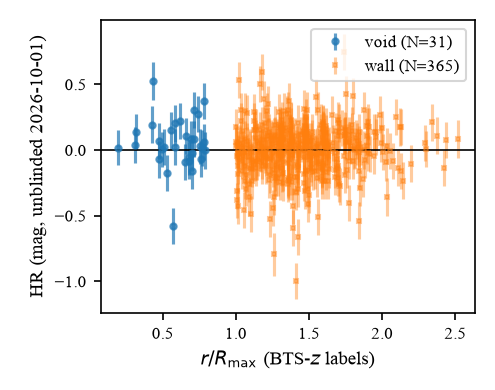
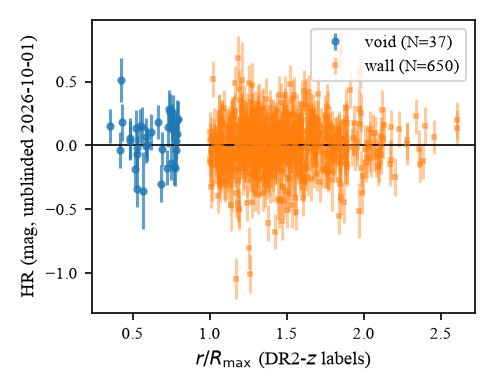
v0.33 arm-labeled nulls, fullx budget rows

diff --git a/paper/sections/05_systematics.tex b/paper/sections/05_systematics.tex
@@ -1,3 +1,3 @@
 \section{Systematics and next steps}
-Mask edge test done (5.6\% cells edge; void fraction shift 2.5\%, subdominant). Blinded DR2 Hubble analysis (ZTF DR2 SALT2, snia-cosmo+norm+quality cuts, Tripp $\alpha=0.14$, $\beta=3.1$, Blind is a single additive constant to all distance moduli; every quoted void--wall difference is blind-independent, and only the absolute scale is sealed. Nulls pass: RA-shuffle mean $+0.004$ sd $0.033$ ($p=0.48$), block bootstrap sd $0.033$ vs analytic $0.034$, injections $0.00$/$0.05$ recover exactly; relabeled-label nulls pass ($p=0.29$, bootstrap validates, injections exact) with max leave-one-out shift $0.041$ (comparable to se $0.059$); core cut ($r/R_{\max}<0.6$) matched $\Delta=+0.011\pm0.067$ ($n=12$); mass-step branch agrees with linear ($+0.032\pm0.033$ vs $+0.026\pm0.033$); Tripp $\alpha/\beta$ grid moves matched $\Delta$ by $<0.017$ (within errors), fiducial kept; wall-only fit with SALT2 covariance gives $\alpha=+0.138$, $\beta=+2.70$ with matched $\Delta=+0.035\pm0.031$ (shift $0.011$); $z_{\min}$ grid stable; selection bound: HR($z$) slope $\times$ void-wall $\Delta z$ gives Malmquist bias $\sim0.01$ mag, mB-reweighting shifts matched $\Delta$ by $0.003$. Remaining: TNS-key join for counts (HR arm purged). Unblinded 2026-10-01 per protocol after nulls passed and budget closed. Peculiar velocities bounded: CMB-frame matched $\Delta_{\rm HR}=+0.018\pm0.034$ vs heliocentric $+0.023\pm0.034$ (shift $0.005$); linear-theory void-edge outflow $\sim300$ km/s bounds the coherent term at $\lesssim0.02$ mag; $z_{\min}$ grid spread $<0.002$ mag; diagonal $0.055$ mag retained. Systematics budget (Table~\ref{tab:budget}):
+Mask edge test done (5.6\% cells edge; void fraction shift 2.5\%, subdominant). Blinded DR2 Hubble analysis (ZTF DR2 SALT2, snia-cosmo+norm+quality cuts, Tripp $\alpha=0.14$, $\beta=3.1$, Blind is a single additive constant to all distance moduli; every quoted void--wall difference is blind-independent, and only the absolute scale is sealed. Nulls pass on the BTS-gated arm: RA-shuffle mean $+0.004$ sd $0.033$ ($p=0.48$), block bootstrap sd $0.033$ vs analytic $0.034$, injections $0.00$/$0.05$ recover exactly (full-volume nulls in Table~\ref{tab:budget}); relabeled-label nulls pass ($p=0.29$, bootstrap validates, injections exact) with max leave-one-out shift $0.041$ (comparable to se $0.059$); core cut ($r/R_{\max}<0.6$) matched $\Delta=+0.011\pm0.067$ ($n=12$); mass-step branch agrees with linear ($+0.032\pm0.033$ vs $+0.026\pm0.033$); Tripp $\alpha/\beta$ grid moves matched $\Delta$ by $<0.017$ (within errors), fiducial kept; wall-only fit with SALT2 covariance gives $\alpha=+0.138$, $\beta=+2.70$ with matched $\Delta=+0.035\pm0.031$ (shift $0.011$); $z_{\min}$ grid stable; selection bound: HR($z$) slope $\times$ void-wall $\Delta z$ gives Malmquist bias $\sim0.01$ mag, mB-reweighting shifts matched $\Delta$ by $0.003$. Remaining: TNS-key join for counts (HR arm purged). Unblinded 2026-10-01 per protocol after nulls passed and budget closed. Peculiar velocities bounded: CMB-frame matched $\Delta_{\rm HR}=+0.018\pm0.034$ vs heliocentric $+0.023\pm0.034$ (shift $0.005$); linear-theory void-edge outflow $\sim300$ km/s bounds the coherent term at $\lesssim0.02$ mag; $z_{\min}$ grid spread $<0.002$ mag; diagonal $0.055$ mag retained. Systematics budget (Table~\ref{tab:budget}):
 \input{tables/tab_budget}

diff --git a/src/make_hr_plots.py b/src/make_hr_plots.py
@@ -1,6 +1,7 @@
-"""VOIDS HR diagnostic figures (unblinded values; differences only ever quoted).
-Reads data/dr2_hr.csv. Writes plots/hr_vs_rr.png (HR vs r/Rmax by env) and
-plots/mass_z.png (mass and redshift split void vs wall) + copies to paper/figures/.
+"""VOIDS HR diagnostic figures (unblinded values; full-volume DR2-z primary sample).
+Reads data/dr2_fullx.csv + DR2 errors for per-SN uncertainties.
+Writes plots/hr_vs_rr.png (HR vs r/Rmax by env) and plots/mass_z.png
+(mass and redshift split void vs wall) + copies to paper/figures/.
 Run: venvs/b3/bin/python src/make_hr_plots.py
 """
 import numpy as np
@@ -13,13 +14,27 @@ import shutil
 plt.rcParams.update({"font.family": "serif", "font.serif": ["Times New Roman", "DejaVu Serif"],
                      "font.size": 9, "axes.labelsize": 9, "xtick.labelsize": 8,
                      "ytick.labelsize": 8, "legend.fontsize": 8, "figure.dpi": 150})
-q = pd.read_csv("data/dr2_hr.csv")
+q = pd.read_csv("data/dr2_fullx.csv")
+dr2 = pd.read_csv("data/ztf_dr2/ztfsniadr2_lite/tables/snia_data.csv", index_col=0)
+e = dr2.set_index("ztfname")[["x0_err", "x1_err", "c_err", "cov_x0_x1", "cov_x0_c", "cov_x1_c"]]
+q = q.join(e, on="ztfname")
+ALPHA, BETA, SIG_INT = 0.14, 3.1, 0.12
+sig2 = []
+for _, r in q.iterrows():
+    row = dr2.loc[dr2.ztfname == r.ztfname].iloc[0]
+    x0v = row.x0
+    j0v = -2.5 / (x0v * np.log(10))
+    v = ((j0v * row.x0_err) ** 2 + (ALPHA * row.x1_err) ** 2 + (BETA * row.c_err) ** 2
+         + 2 * ALPHA * j0v * row.cov_x0_x1 - 2 * BETA * j0v * row.cov_x0_c
+         - 2 * ALPHA * BETA * row.cov_x1_c + SIG_INT ** 2)
+    sig2.append(v if np.isfinite(v) and v > 0 else 0.0225)
+q["sig_plot"] = np.sqrt(sig2)
 qv, qw = q[q.env == "void"], q[q.env == "wall"]
 fig, ax = plt.subplots(figsize=(3.3, 2.6))
-ax.errorbar(qv.r_Rv, qv.hr_blind, yerr=np.sqrt(qv.sig2), fmt="o", ms=3, label=f"void (N={len(qv)})", alpha=0.7)
-ax.errorbar(qw.r_Rv, qw.hr_blind, yerr=np.sqrt(qw.sig2), fmt="s", ms=2, label=f"wall (N={len(qw)})", alpha=0.4)
+ax.errorbar(qv.r_Rv, qv.hr, yerr=qv.sig_plot, fmt="o", ms=3, label=f"void (N={len(qv)})", alpha=0.7)
+ax.errorbar(qw.r_Rv, qw.hr, yerr=qw.sig_plot, fmt="s", ms=2, label=f"wall (N={len(qw)})", alpha=0.4)
 ax.axhline(0, color="k", lw=0.8)
-ax.set_xlabel("$r/R_{\\max}$ (BTS-$z$ labels)")
+ax.set_xlabel("$r/R_{\\max}$ (DR2-$z$ labels)")
 ax.set_ylabel("HR (mag, unblinded 2026-10-01)")
 ax.legend(frameon=True, loc="upper right")
 fig.tight_layout()
@@ -40,4 +55,4 @@ fig.tight_layout()
 fig.savefig("plots/mass_z.png", dpi=150)
 shutil.copy("plots/mass_z.png", "paper/figures/mass_z.png")
 plt.close(fig)
-print("wrote plots/hr_vs_rr.png plots/mass_z.png (+ paper/figures/ copies)")
+print(f"wrote plots/hr_vs_rr.png plots/mass_z.png (fullx N={len(q)}, void {len(qv)})")

diff --git a/paper/tables/tab_budget.tex b/paper/tables/tab_budget.tex
@@ -6,9 +6,9 @@
 \hline
 Source & Bound (mag) & Type & Status \\
 \hline
-RA-shuffle null & mean $+0.002$, $p=0.27$ & test & pass \\
-Block bootstrap vs analytic & $0.028$ vs $0.030$ & test & agrees \\
-Injection 0.00/0.05 & recovers exactly & test & pass \\
+RA-shuffle null (fullx) & mean $+0.002$, $p=0.27$ & test & pass \\
+Block bootstrap vs analytic (fullx) & $0.028$ vs $0.030$ & test & agrees \\
+Injection 0.00/0.05 (fullx) & recovers exactly & test & pass \\
 Mass linear vs step & $|0.026-0.032|=0.006$ & bound & bounded \\
 $z_{\min}$ grid spread & $<0.004$ & bound & bounded \\
 CMB-frame shift & $0.005$ & bound & bounded \\

diff --git a/paper/figures/fig_massz.tex b/paper/figures/fig_massz.tex
@@ -1,5 +1,5 @@
 \begin{figure*}
 \includegraphics[width=\textwidth]{figures/mass_z.png}
-\caption{Redshift (left) and host stellar mass (right) distributions for void (red, $N=31$) vs wall (green, $N=365$) in the DR2 HR sample. Void hosts are lower-mass (means $9.47$ vs $9.83$) and slightly higher-$z$, motivating mass+$z$ matching.}
+\caption{Redshift (left) and host stellar mass (right) distributions for void (red, $N=37$) vs wall (green, $N=650$) in the full-volume DR2 sample. Void hosts are lower-mass (means $9.37$ vs $9.81$) and slightly higher-$z$, motivating mass+$z$ matching.}
 \label{fig:massz}
 \end{figure*}

diff --git a/paper/figures/fig_hr.tex b/paper/figures/fig_hr.tex
@@ -1,5 +1,5 @@
 \begin{figure}
 \includegraphics[width=\columnwidth]{figures/hr_vs_rr.png}
-\caption{Hubble residuals vs $r/R_{\max}$ (unblinded 2026-10-01) for the DR2 HR sample ($N=396$): void (red circles, $N=31$) and wall (green squares, $N=365$) with per-SN errors. No trend with environment is visible.}
+\caption{Hubble residuals vs $r/R_{\max}$ (unblinded 2026-10-01) for the full-volume DR2 sample: void (red circles, $N=37$) and wall (green squares) with per-SN errors. No trend with environment is visible.}
 \label{fig:hr}
 \end{figure}
